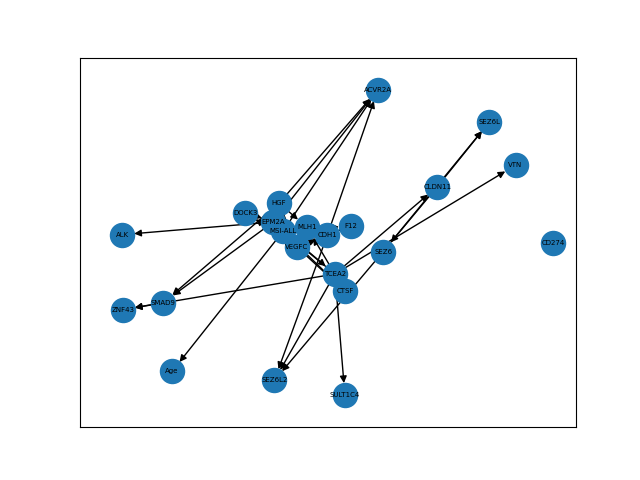
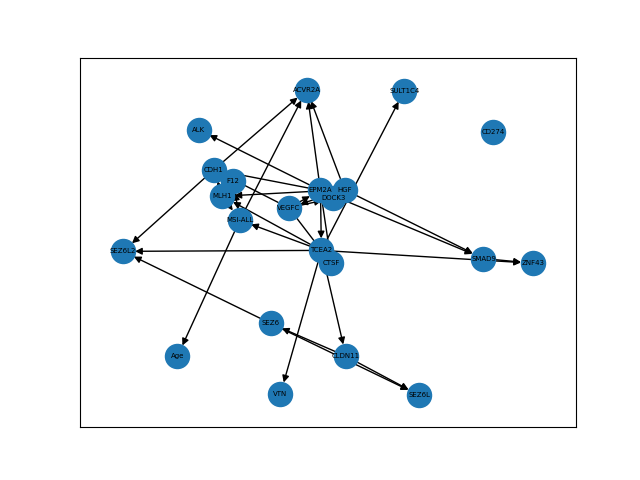
debug了相关性部分，因果性部分没动

diff --git a/MSItool.py b/MSItool.py
@@ -46,7 +46,7 @@ evalution=0
 filename=""
 writedir="" #貌似也是作用域的问题，不在这里写上的话后面就会认为writedir只在那个for里面定义
 data=0
-msiname="MSI-ALL"
+msiname="MSI"
 args=[]
 opts=[]
 try:
@@ -56,11 +56,10 @@ except getopt.GetoptError as err:
     exit_help()
 def readdata():
     try:
-        #filename=args[0] 这里应该是sys.argv[0]？args的0不是filename吧
-        global filename #还有就是函数内用全局变量要声明global，下面的data同理
-        filename=sys.argv[0]
+        global filename
+        filename=args[0] #还有就是函数内用全局变量要声明global，下面的data同理
         global data
-        data=pd.read_csv("new_chosen_data.csv") #这里硬编码死输入的csv名还是搞成输入参数？我这里改了是因为，原来的chosen_data有好多非数项不能跑
+        data=pd.read_csv(filename,header=None,index_col=0,low_memory=False) #这里硬编码死输入的csv名还是搞成输入参数？我这里改了是因为，原来的chosen_data有好多非数项不能跑
         #最重要的一点:数据预处理必须扔到非数项！包括sample的代号，除了index都要是数才行
         data=data.dropna()
     except:
@@ -104,10 +103,16 @@ except:
     pass
 
 def getcorrelation():
-    n=100 #后面的那个n参数没有定义，这里应该是指“取前多少个”吧，我在这里先写成常量了，或者改成用户选择？
-    nrows=data.columns.get_loc(msiname)+1
+    global data
+    del data['symbol_mrna']
+    nrows = data.columns.get_loc("MSI") + 1  # Excel中MSI所在excel中的行-1(除去了表头） 19966
+    n = 100
+    datat = pd.read_csv("origin_data.csv", header=0, index_col=0, nrows=nrows - 1).T
+
+
     if correlation==1:
-        dcorr=data.corr()
+        dcorr=datat.corr(numeric_only=True)
+        print(dcorr)
         dcorr.to_csv('corr_result.csv')#路径的问题和下面一样
         # dcorr=pd.read_csv("corr_result.csv",header=0,index_col=0)
         a=np.triu(dcorr,1)
@@ -122,7 +127,7 @@ def getcorrelation():
         # print(data.iloc[:,nrows-1])
         corr=[];o_corr=[];o_index=[];o_pv=[]
         for i in range(0,nrows):
-            dcorr,p=scipy.stats.spearmanr(data.iloc[:, nrows-1], data.iloc[:, i])
+            dcorr,p=scipy.stats.spearmanr(datat.iloc[:, nrows-1], datat.iloc[:, i])
             if not math.isnan(dcorr):
                 corr.append(dcorr)
                 o_corr.append(dcorr)
@@ -131,13 +136,18 @@ def getcorrelation():
         corr.sort(reverse=True)
         with open('corrdata.txt', 'w') as f:
             for i in range(0,len(corr)):
-                f.write(data.columns[o_index[o_corr.index(corr[i])]]);f.write("    p=")
+                f.write(datat.columns[o_index[o_corr.index(corr[i])]]);f.write("    p=")
                 f.write(f"{o_pv[o_corr.index(corr[i])]}");f.write("    ")
                 f.write(f"{corr[i]}\n")
+
+
     with open('kendall_result.txt', 'w') as f:
-            f.write('kendalltau  r and p\n\n')
-            r, p = scipy.stats.kendalltau(data.iloc[:, nrows - 1], data.iloc[:, nrows])
-            f.write('Primary Site and MSI\n');f.write(f"{r}");f.write("    ");f.write(f"{p}\n\n")
+        f.write('kendalltau  r and p\n\n')
+        #print(data.iloc[:,nrows-1])
+        #print(data.loc[:, 'Primary Site'])
+        r, p = scipy.stats.kendalltau(data.iloc[:, nrows - 1], data.iloc[:, nrows])
+        f.write('Primary Site and MSI\n');f.write(f"{r}");f.write("    ");f.write(f"{p}\n\n")
+
 def getgraph():
     import cdt
     glasso = cdt.independence.graph.Glasso()

diff --git a/Correlation.py b/Correlation.py
@@ -8,6 +8,7 @@ data=pd.read_csv("origin_data.csv",header=0,index_col=0,low_memory=False).T
 nrows=data.columns.get_loc("MSI")+1 #Excel中MSI所在excel中的行-1(除去了表头） 19966
 n=5000
 data=pd.read_csv("origin_data.csv",header=0,index_col=0,nrows=nrows-1).T
+print(data)
 dcorr=data.corr()
 dcorr.to_csv(r'corr_result.csv')
 # dcorr=pd.read_csv("corr_result.csv",header=0,index_col=0)
